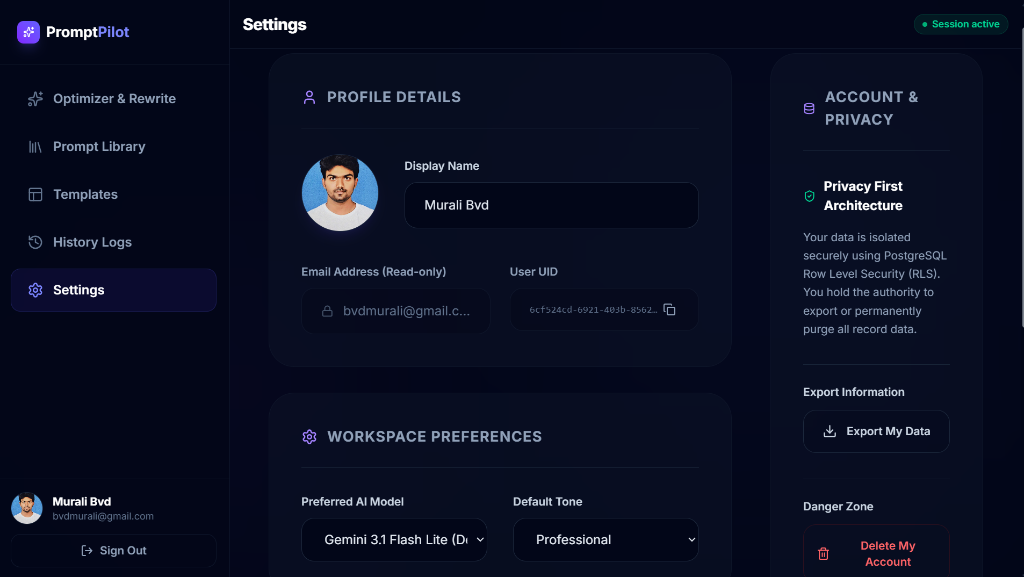
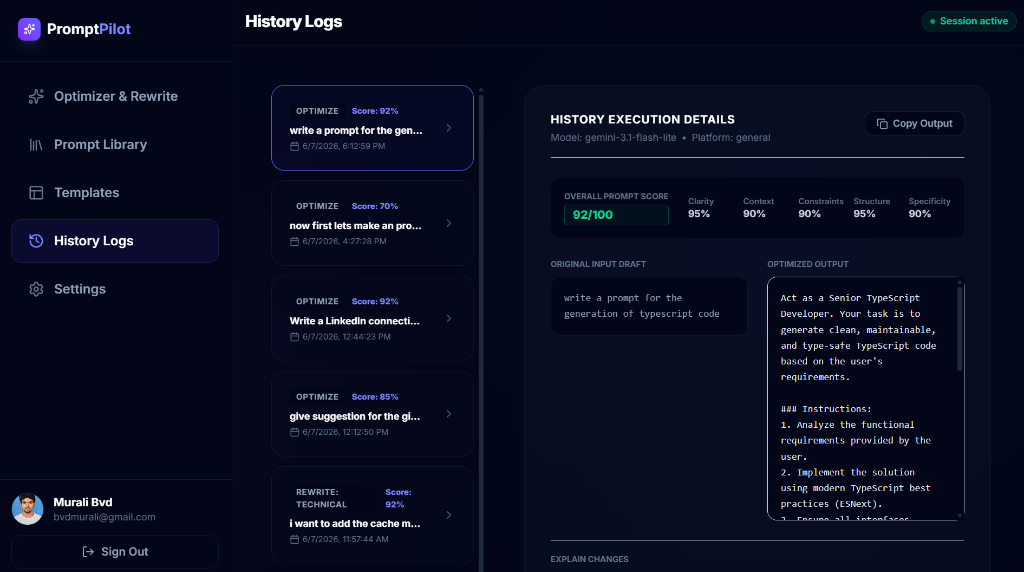
docs(web): correct screenshot mappings, restore templates panel view, and fix mermaid parse error

diff --git a/web/README.md b/web/README.md
@@ -215,7 +215,7 @@ This workflow guarantees privacy while preventing accidental loss of user prompt
 stateDiagram-v2
     [*] --> ActiveState: User Signup
     ActiveState --> ScheduledDeleteState: User Clicks "Delete My Account" in Settings
-    note right of ScheduledDeleteState : DB Table: users.deleted_at = NOW()
+    note right of ScheduledDeleteState : DB Table - users.deleted_at = NOW()
     ScheduledDeleteState --> BlockedUI: User Attempts Navigation
     note right of BlockedUI : Dashboard layout displays Deletion Alert Screen
     
@@ -229,7 +229,7 @@ stateDiagram-v2
     SignOut --> [*]: User Exits Session
     
     ScheduledDeleteState --> HardDelete: 30 Days Pass
-    note right of HardDelete : DB Daemon: purge_soft_deleted_users() runs
+    note right of HardDelete : DB Daemon - purge_soft_deleted_users() runs
     HardDelete --> [*]: Auth User record deleted (Cascades delete all data)
 ```
 
@@ -303,7 +303,14 @@ Features pre-built system templates (e.g., Resume Builder, Cover Letter Generato
 
 ### Account Settings and Credentials Override
 Users configure display names, upload profile avatars, choose default models, and configure custom API keys.
-![Account Settings UI](../assets/settings_keys.png)
+
+#### Account Settings Page
+Provides general settings including profile name update, avatar upload, and account deletion options.
+![Account Settings UI](../assets/dashboard_settings.png)
+
+#### API Credentials Override
+Allows configuring custom API keys for Google Gemini, OpenAI, Anthropic, and OpenRouter directly in local settings.
+![API Keys Override](../assets/settings_keys.png)
 
 ---
 
